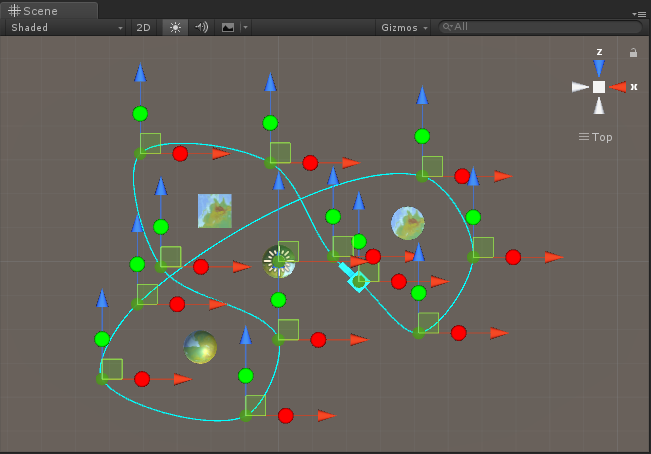
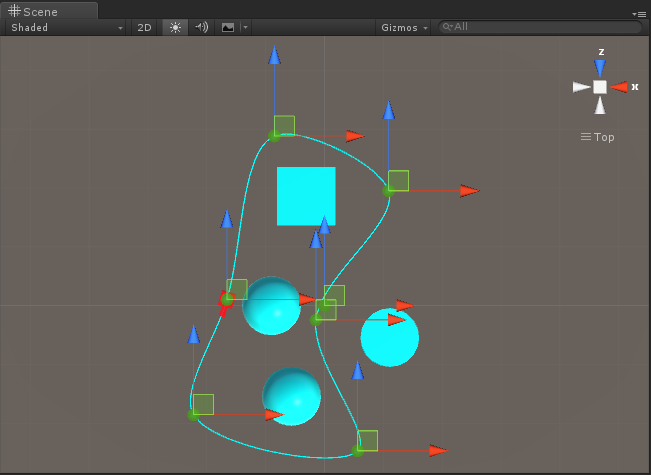
Optimize scripts.

diff --git a/Assets/MGS-PathAnimation/Editor/PathEditor.cs b/Assets/MGS-PathAnimation/Editor/PathEditor.cs
@@ -26,14 +26,15 @@ namespace Developer.PathAnimation
         #region Property and Field
         protected Path script { get { return target as Path; } }
 
-        protected Color blue = new Color(0, 1, 1, 1);
-        protected float nodeSize = 0.1f;
-        protected float buttonOffset = 0.5f;
+        protected readonly Color blue = new Color(0, 1, 1, 1);
+        protected const float nodeSize = 0.1f;
+        protected const float buttonSize = 0.2f;
+        protected const float buttonOffset = 0.35f;
 
 #if UNITY_5_5_OR_NEWER
-        protected Handles.CapFunction SphereCap = Handles.SphereHandleCap;
+        protected readonly Handles.CapFunction SphereCap = Handles.SphereHandleCap;
 #else
-        protected Handles.DrawCapFunction SphereCap = Handles.SphereCap;
+        protected readonly Handles.DrawCapFunction SphereCap = Handles.SphereCap;
 #endif
         #endregion
 
@@ -60,34 +61,42 @@ namespace Developer.PathAnimation
                     MarkSceneDirty();
                 }
 
-                var buttonSize = handleSize * nodeSize * 2;
-                Handles.color = Color.green;
-                if (Handles.Button(anchorPos + new Vector3(0, 0, handleSize * buttonOffset), Quaternion.identity, buttonSize, buttonSize, SphereCap))
-                {
-                    var anchorOffset = new Vector3(0, 0, handleSize);
-                    if (i > 0)
-                        anchorOffset = (script.anchors[i] - script.anchors[i - 1]).normalized * handleSize;
-                    script.anchors.Insert(i + 1, script.anchors[i] + anchorOffset);
-                    script.CreateCurve();
-                    MarkSceneDirty();
-                }
+                var constOffset = handleSize * buttonOffset;
+                var constSize = handleSize * buttonSize;
 
-                Handles.color = Color.red;
-                if (Handles.Button(anchorPos + new Vector3(handleSize * buttonOffset, 0, 0), Quaternion.identity, buttonSize, buttonSize, SphereCap))
+                if (Event.current.control)
                 {
-                    script.anchors.RemoveAt(i);
-                    script.CreateCurve();
-                    MarkSceneDirty();
+                    Handles.color = Color.green;
+                    if (Handles.Button(anchorPos + new Vector3(constOffset, constOffset, constOffset), Quaternion.identity, constSize, constSize, SphereCap))
+                    {
+                        var anchorOffset = new Vector3(0, 0, handleSize);
+                        if (i > 0)
+                            anchorOffset = (script.anchors[i] - script.anchors[i - 1]).normalized * handleSize;
+                        script.anchors.Insert(i + 1, script.anchors[i] + anchorOffset);
+                        script.CreateCurve();
+                        MarkSceneDirty();
+                    }
+                }
+                else if (Event.current.shift)
+                {
+                    Handles.color = Color.red;
+                    if (Handles.Button(anchorPos + new Vector3(constOffset, constOffset, constOffset), Quaternion.identity, constSize, constSize, SphereCap))
+                    {
+                        script.anchors.RemoveAt(i);
+                        script.CreateCurve();
+                        MarkSceneDirty();
+                    }
                 }
             }
 
             if (script.anchors.Count == 0)
             {
                 var handleSize = HandleUtility.GetHandleSize(script.transform.position);
-                var buttonSize = handleSize * nodeSize * 2;
+                var constOffset = handleSize * buttonOffset;
+                var constSize = handleSize * buttonSize;
 
                 Handles.color = Color.green;
-                if (Handles.Button(script.transform.position + new Vector3(0, 0, handleSize * buttonOffset), Quaternion.identity, buttonSize, buttonSize, SphereCap))
+                if (Handles.Button(script.transform.position + new Vector3(constOffset, constOffset, constOffset), Quaternion.identity, constSize, constSize, SphereCap))
                 {
                     script.anchors.Insert(0, new Vector3(0, 0, handleSize));
                     script.CreateCurve();

diff --git a/Assets/MGS-PathAnimation/Scripts/PathAnimation.cs b/Assets/MGS-PathAnimation/Scripts/PathAnimation.cs
@@ -42,7 +42,7 @@ namespace Developer.PathAnimation
         /// <summary>
         /// Delta to calculate tangent.
         /// </summary>
-        protected float delta = 0.1f;
+        protected const float delta = 0.1f;
         #endregion
 
         #region Protected Method
